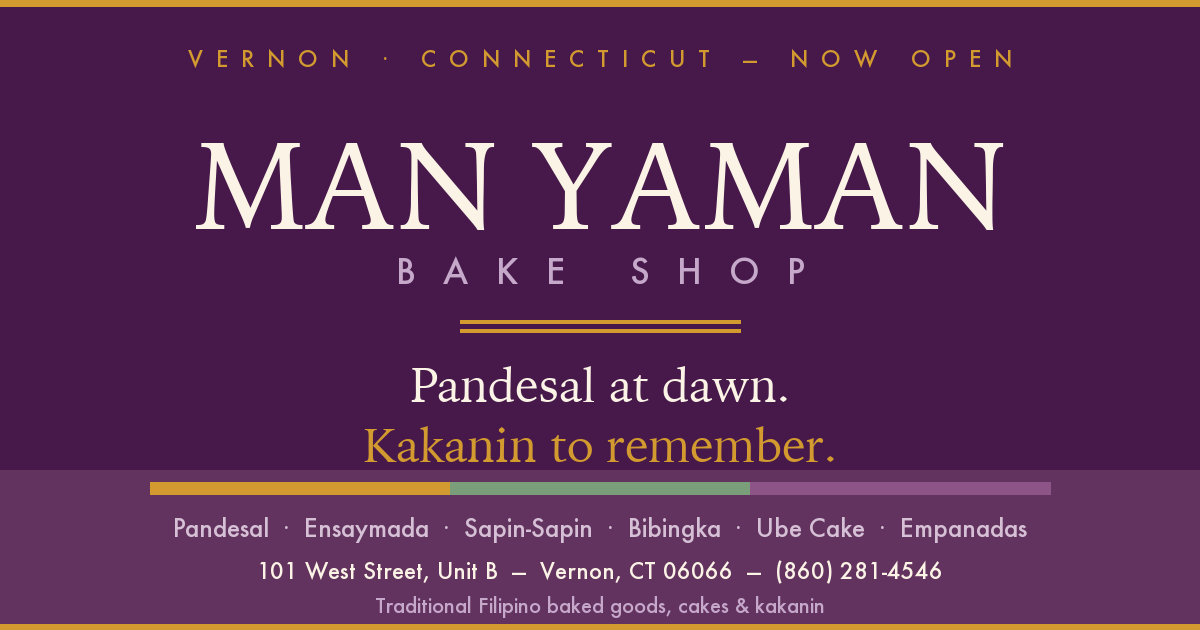
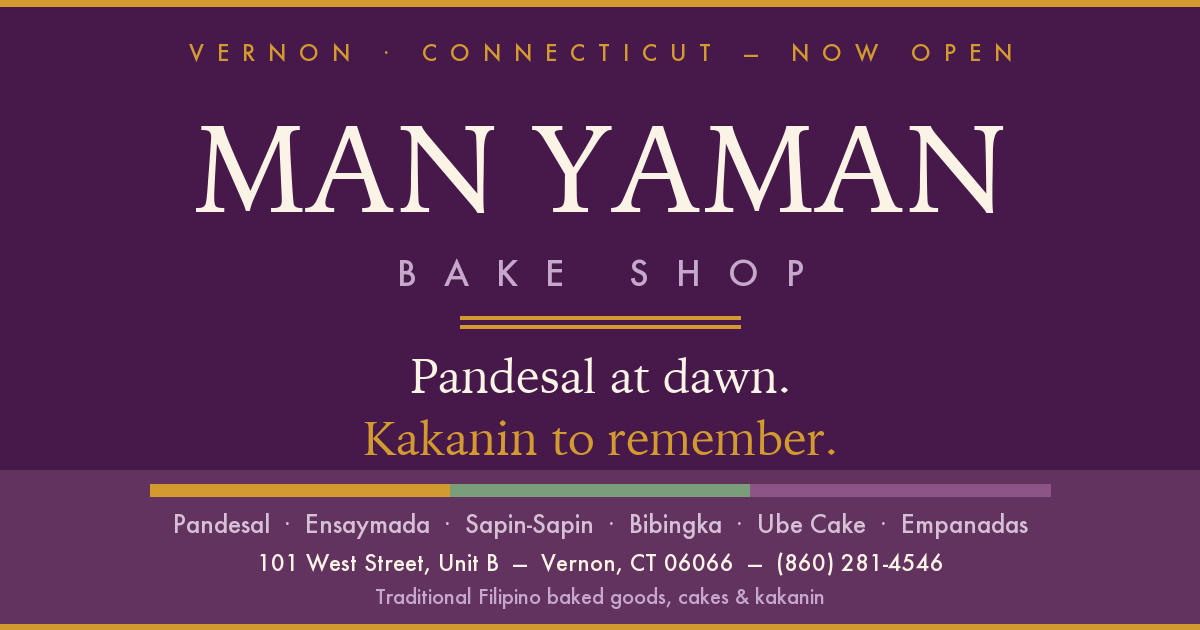
og.png v2: anchor/advance-width centering (offsets <=0.5px) + stripe clearance asserts

diff --git a/make_og.py b/make_og.py
@@ -1,15 +1,15 @@
 #!/usr/bin/env python3
-"""og.png 1200x630 — Man Yaman Bake Shop — 'kakanin layers' poster.
-Ube-ink ground, cream serif brand, sapin-sapin stripe (gold/jade/plum),
-pandesal-gold rules. Shop identity only, no third-party marks."""
+"""og.png 1200x630 — Man Yaman Bake Shop — 'kakanin layers' poster. v2:
+advance-width (anchor) centering + measured clearance asserts. t_5fc04d16 2026-11-24."""
 from PIL import Image, ImageDraw, ImageFont
 import os
 
 W, H = 1200, 630
-OUT = os.path.join(os.path.dirname(os.path.abspath(__file__)), "public", "og.png")
+HERE = os.path.dirname(os.path.abspath(__file__))
+OUT = os.path.join(HERE, "public", "og.png")
 
 UBE = (70, 25, 74); UBE2 = (99, 51, 95); CREAM = (251, 243, 230); GOLD = (210, 154, 47)
-JADE = (63, 112, 80); PLUM = (141, 85, 135); LAV = (198, 168, 203); MIST = (214, 192, 214)
+JADE = (122, 158, 122); PLUM = (141, 85, 135); LAV = (198, 168, 203); MIST = (214, 192, 214)
 
 def font(paths, size):
     bases = ["/System/Library/Fonts/Supplemental/", "/System/Library/Fonts/"]
@@ -22,57 +22,66 @@ def font(paths, size):
     return ImageFont.load_default()
 
 serif = lambda s: font(["Iowan Old Style.ttc", "Palatino.ttc", "Georgia.ttf", "Times New Roman.ttf"], s)
-sans = lambda s: font(["Futura.ttc", "HelveticaNeue.ttc", "HelveticaNeue.ttc", "Arial.ttf"], s)
+sans = lambda s: font(["Futura.ttc", "HelveticaNeue.ttc", "Arial.ttf"], s)
 
 img = Image.new("RGB", (W, H), UBE)
 d = ImageDraw.Draw(img)
 
-# lower third band (deeper ube) like a counter shadow
-d.rectangle([0, 470, W, H], fill=UBE2)
-# gold rules top and bottom edges
+d.rectangle([0, 470, W, H], fill=UBE2)          # lower band
 d.rectangle([0, 0, W, 6], fill=GOLD)
 d.rectangle([0, H-6, W, H], fill=GOLD)
 
-def center(text, f, y, fill, tracking=0):
+def center(text, f, cy, fill, tracking=0):
+    """Anchor-centered; returns (ink_left, ink_right, ink_top, ink_bottom)."""
     if tracking:
-        widths = [d.textbbox((0,0), ch, font=f)[2]-d.textbbox((0,0), ch, font=f)[0] for ch in text]
-        tw = sum(widths) + tracking*(len(text)-1)
-        x = (W-tw)/2
-        for ch,w in zip(text,widths):
-            bb = d.textbbox((0,0), ch, font=f)
-            d.text((x - bb[0], y), ch, font=f, fill=fill)
+        widths = [d.textlength(ch, font=f) for ch in text]
+        tw = sum(widths) + tracking * (len(text) - 1)
+        x = (W - tw) / 2.0
+        tops, bots = [], []
+        for ch, w in zip(text, widths):
+            bb = d.textbbox((x, cy), ch, font=f, anchor="lm")
+            d.text((x, cy), ch, font=f, fill=fill, anchor="lm")
+            tops.append(bb[1]); bots.append(bb[3])
             x += w + tracking
-        return tw
-    bb = d.textbbox((0,0), text, font=f)
-    d.text(((W-(bb[2]-bb[0]))/2 - bb[0], y), text, font=f, fill=fill)
-    return bb[2]-bb[0]
+        return (int((W - tw) / 2), int((W + tw) / 2), min(tops), max(bots))
+    bb = d.textbbox((W / 2, cy), text, font=f, anchor="mm")
+    d.text((W / 2, cy), text, font=f, fill=fill, anchor="mm")
+    return (bb[0], bb[2], bb[1], bb[3])   # normalize to (left, right, top, bottom)
 
 # kicker
-center("V E R N O N   ·   C O N N E C T I C U T   —   N O W   O P E N", sans(22), 44, GOLD, tracking=3)
-
+k = center("V E R N O N   ·   C O N N E C T I C U T   —   N O W   O P E N", sans(22), 52, GOLD, tracking=3)
 # brand
-center("MAN YAMAN", serif(124), 100, CREAM)
-center("B A K E   S H O P", sans(34), 248, LAV, tracking=8)
-
-# double rule under brand
-d.rectangle([W/2-140, 320, W/2+140, 323], fill=GOLD)
-d.rectangle([W/2-140, 329, W/2+140, 332], fill=GOLD)
-
-# line
-center("Pandesal at dawn.", serif(48), 352, CREAM)
-center("Kakanin to remember.", serif(48), 412, GOLD)
-
-# sapin-sapin stripe (gold / jade / plum) across the band edge
+b1 = center("MAN YAMAN", serif(124), 168, CREAM)
+b2 = center("B A K E   S H O P", sans(34), 272, LAV, tracking=8)
+# gold double rule under brand
+d.rectangle([W/2-140, 316, W/2+140, 319], fill=GOLD)
+d.rectangle([W/2-140, 325, W/2+140, 328], fill=GOLD)
+# headline lines
+l1 = center("Pandesal at dawn.", serif(48), 376, CREAM)
+l2 = center("Kakanin to remember.", serif(48), 438, GOLD)
+# sapin-sapin stripe (gold / jade / plum)
 sx0, sx1 = 150, W-150
 third = (sx1-sx0)/3.0
-d.rectangle([sx0, 482, sx0+third, 494], fill=GOLD)
-d.rectangle([sx0+third, 482, sx0+2*third, 494], fill=(122, 158, 122))
-d.rectangle([sx0+2*third, 482, sx1, 494], fill=PLUM)
+STRIPE_TOP = 484
+d.rectangle([sx0, STRIPE_TOP, sx0+third, STRIPE_TOP+12], fill=GOLD)
+d.rectangle([sx0+third, STRIPE_TOP, sx0+2*third, STRIPE_TOP+12], fill=JADE)
+d.rectangle([sx0+2*third, STRIPE_TOP, sx1, STRIPE_TOP+12], fill=PLUM)
+# menu / address / tag lines (all inside the deeper band, clear of stripe)
+m = center("Pandesal  ·  Ensaymada  ·  Sapin-Sapin  ·  Bibingka  ·  Ube Cake  ·  Empanadas", sans(24), 524, MIST)
+a = center("101 West Street, Unit B  —  Vernon, CT 06066  —  (860) 281-4546", sans(22), 562, CREAM)
+t = center("Traditional Filipino baked goods, cakes & kakanin", sans(20), 596, LAV)
 
-# menu + address strips (clear of the stripe: stripe ends y494, text starts y512)
-center("Pandesal  ·  Ensaymada  ·  Sapin-Sapin  ·  Bibingka  ·  Ube Cake  ·  Empanadas", sans(24), 512, MIST)
-center("101 West Street, Unit B  —  Vernon, CT 06066  —  (860) 281-4546", sans(22), 556, CREAM)
-center("Traditional Filipino baked goods, cakes & kakanin", sans(20), 592, LAV)
+# geometry asserts (the model's nit lines, proven by measurement)
+assert l2[3] < STRIPE_TOP - 8, f"line2 ink bottom {l2[3]} collides stripe {STRIPE_TOP}"
+assert t[3] < H - 8, f"tag line bottom {t[3]} hits bottom bar"
+assert a[3] < m[0]*0 + 585, f"address bottom {a[3]}"
+for name, box, y in [("kicker", k, 52), ("brand", b1, 168), ("bakeshop", b2, 272),
+                     ("l1", l1, 376), ("l2", l2, 438), ("menu", m, 524), ("addr", a, 562), ("tag", t, 596)]:
+    off = abs(((box[0] + box[1]) / 2) - W / 2)
+    assert off <= 2, f"{name} center off by {off}px"
+    assert box[0] >= 24 and box[1] <= W - 24, f"{name} ink near canvas edge {box}"
+    print(f"{name:9s} ink x[{box[0]},{box[1]}] y[{box[2]},{box[3]}] center-offset {off:.1f}px")
+print(f"line2/stripe clearance {STRIPE_TOP - l2[3]}px  stripe@{STRIPE_TOP}")
 
 img.save(OUT, "PNG", optimize=True)
 print("wrote", OUT, os.path.getsize(OUT), "bytes")
